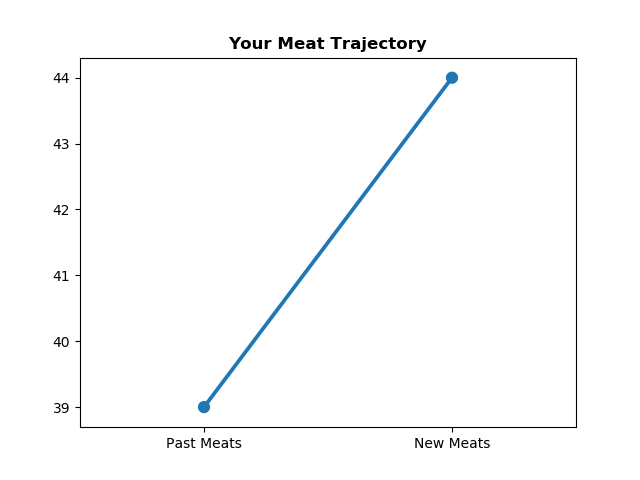
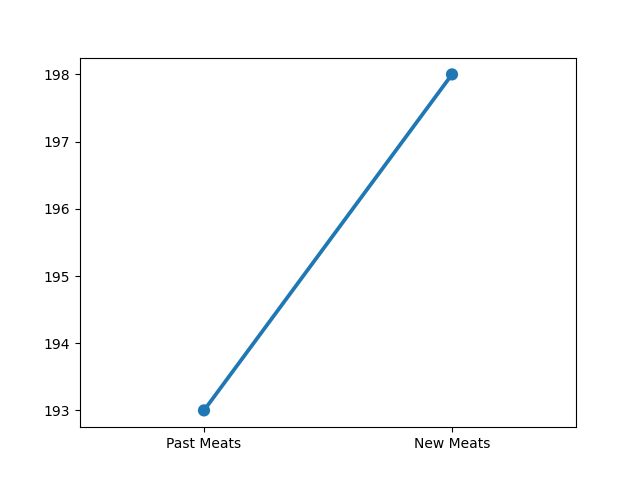
many misc changes

diff --git a/HoyaHacks_pt2/flask_server.py b/HoyaHacks_pt2/flask_server.py
@@ -8,6 +8,7 @@ from firebase_admin import storage
 
 import seaborn as sns
 import matplotlib.pyplot as plt
+from matplotlib.figure import Figure
 
 from web_scraping import get_meats
 
@@ -38,18 +39,25 @@ def is_meat(input_url):
 
     for doc in docs:
         if doc.id == 'our_person':
-            past_meats = doc.to_dict()['meat_ct']
+            our_person = doc.to_dict()
+
+    past_meats = our_person['meat_ct']
+    next_site_num = max([int(s.split('_')[1]) for s in our_person.keys() if s.split('_')[0] == 'site']) + 1
+
+    #Building up dictionary for user
+    our_person['site_' + str(next_site_num)] = new_meats
+    our_person['meat_ct'] = past_meats + new_meats
 
     #Push data to firebase
     doc_ref = db.collection(u'users').document(u'our_person')
-    doc_ref.set({'meat_ct' : past_meats + new_meats})
+    doc_ref.set(our_person)
 
     #Building a roast for the meat viewer
     template_roasts = ['Should you really be looking at a page with %s meat mentions??',
                        'You know, there are %s mentions of meat on this page...',
                        'I get it, we can\'t ALL be strong willed. %s meat mentions is a lot though.',
                        'MEAT ALERT: THERE ARE %s MENTIONS OF MEAT HERE!!!',
-                       'Look I get it. You\'re weak. But %s mentions of meat? Really?']
+                       'Look I get it. You\'re weak. But %s mentions of meat? Really??']
 
     roast = None
     if new_meats > 0:
@@ -64,35 +72,45 @@ def is_meat(input_url):
 
     return pass_back
 
-#TODO: fix the breaking + make better plots to send back!
+#PLOTS:
+#  -Meat trends over time
+#  -CO2 emissions reduction becuase of the meat that you didn't eat
+#  -Money savings
+#TODO: make this a normal function (not an endpoint) and trigger when new meat is found!
 @app.route('/plots', methods = ['GET'])
 def make_plots():
-    if False:
-        #Get meat count data
-        users_ref = db.collection(u'users')
-        docs = users_ref.stream()
-        meat_ct = 0
+    #Get meat count data
+    users_ref = db.collection(u'users')
+    docs = users_ref.stream()
+    meat_ct = 0
 
-        for doc in docs:
-            if doc.id == 'our_person':
-                meat_ct = doc.to_dict()['meat_ct']
+    for doc in docs:
+        if doc.id == 'our_person':
+            our_person = doc.to_dict()
 
-        #Make a plot w/seaborn - DOESN'T CURRENTLY PLOT ANYTHING MEANINGFUL, just a test!
-        #  TODO: try agin to see if it's still broken!
-        ax = sns.pointplot(x = ['Past Meats', 'New Meats'], y = [meat_ct, meat_ct + 5])
-        ax.set_title('Your Meat Trajectory', **{'fontweight' : 'bold'})
+    #TEST PLOT
+    # fig = Figure()
+    # axis = fig.add_subplot(1, 1, 1)
+    # sns.pointplot(x = ['Past Meats', 'New Meats'], y = [meat_ct, meat_ct + 5], ax = axis)
+    #
+    # plt_fp = 'test.png'
+    # fig.savefig(plt_fp, dpi = 100)
 
-        plt_fp = 'test.png'
-        plt.savefig(plt_fp, dpi = 100)
+    #Meat trends over time
 
-        #Push the plot into firebase + get URL
-        bucket = storage.bucket()
-        blob = bucket.blob(plt_fp)
-        blob.upload_from_filename(plt_fp)
 
-        blob.make_public()
-        plt_url = blob.public_url
-    return {'welcome' : 'hello'}
+    fig = Figure()
+    axis = fig.add_subplot(1, 1, 1)
+
+    #Push the plot into firebase + get URL
+    bucket = storage.bucket()
+    blob = bucket.blob(plt_fp)
+    blob.upload_from_filename(plt_fp)
+
+    blob.make_public()
+    plt_url = blob.public_url
+
+    return {'urls' : [plt_url]}
 
 if __name__ == '__main__':
     app.run(debug = True)

diff --git a/HoyaHacks_pt2/misc_testing.py b/HoyaHacks_pt2/misc_testing.py
@@ -56,8 +56,21 @@ if False:
     print(all_text_ish[0].text)
 
 #ALTERNATE PLOTTING:
-if True:
+if False:
     import matplotlib.pyplot as plt
+    import seaborn as sns
+    from matplotlib.figure import Figure
 
-    plt.scatter(['thing1', 'thing2'], [1, 2])
-    plt.show()
+    fig = Figure()
+    axis = fig.add_subplot(1, 1, 1)
+    sns.pointplot(x = ['Past Meats', 'New Meats'], y = [10, 10 + 5], ax = axis)
+    axis.set_title('Your Meat Trajectory', **{'fontweight' : 'bold'})
+
+    plt_fp = 'test.png'
+    fig.savefig(plt_fp, dpi = 100)
+
+if True:
+    our_person = {'site_1' : 3, 'site_2' : 4, 'meat_ct' : 90}
+    site_nums = [int(s.split('_')[1]) for s in our_person.keys() if s.split('_')[0] == 'site']
+
+    
